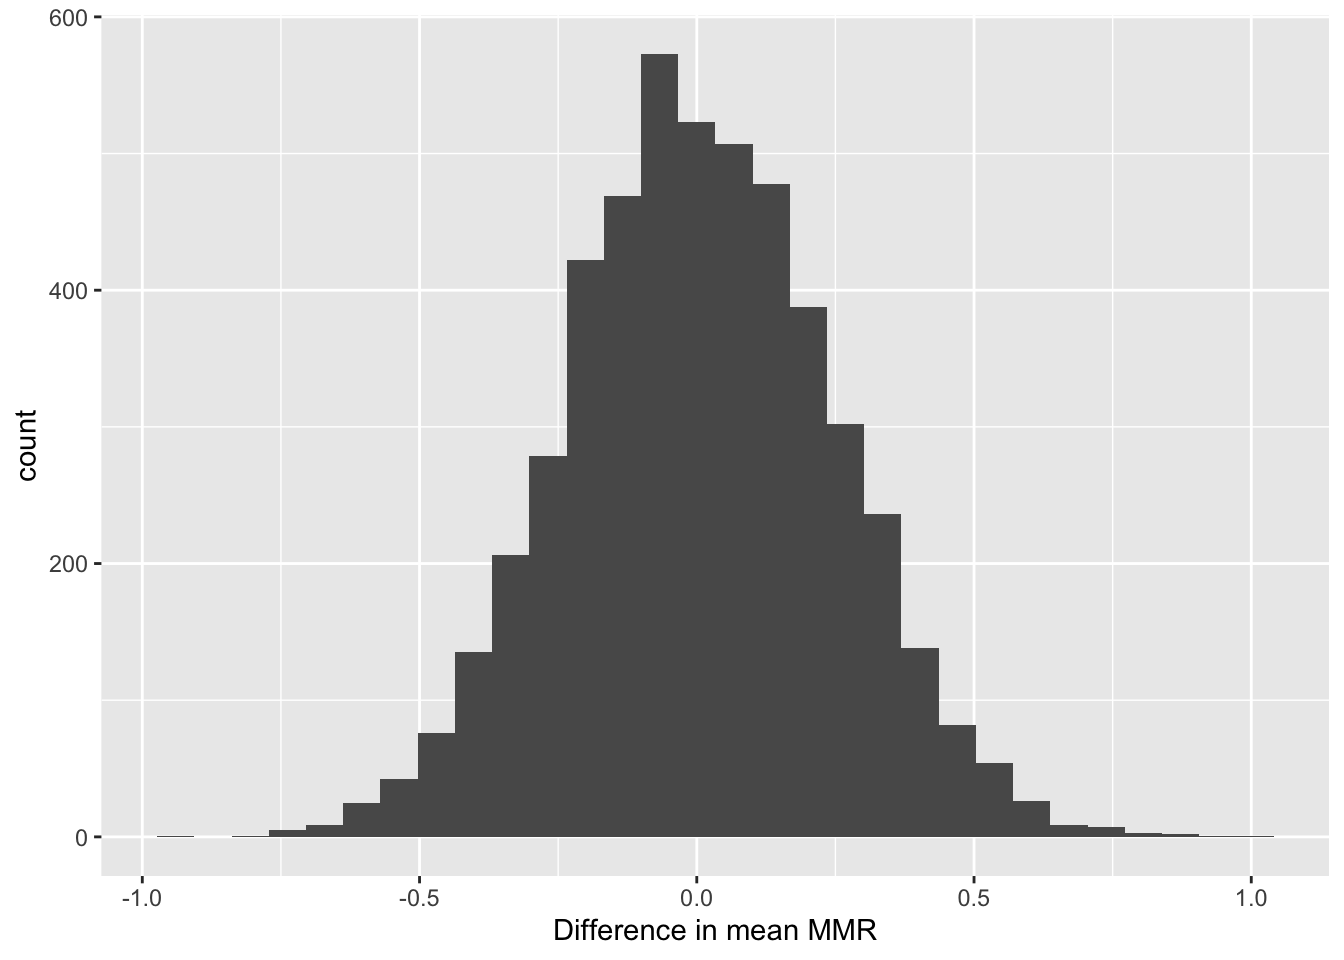
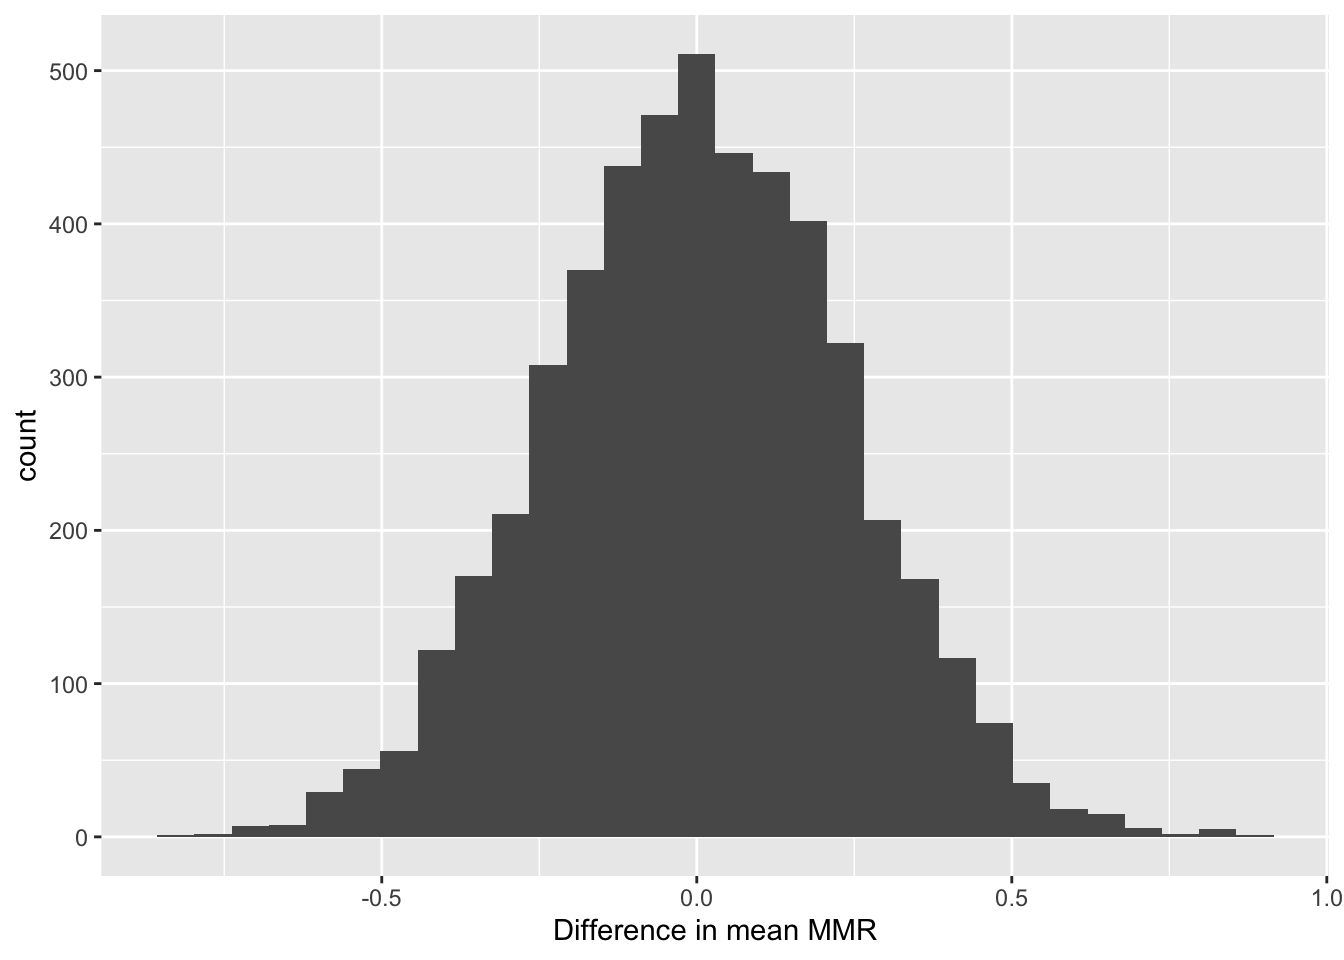
fifth

diff --git a/public/project2/index.html b/public/project2/index.html
@@ -74,8 +74,6 @@
               
 
 
-<div id="yu-qin" class="section level2">
-<h2>Yu Qin</h2>
 <p>This is a document exploring vaccination in schools, with an interest to see if there is a difference in measles vaccination rates between public and private schools. The dataset includes the US state the school is located in (<strong>state</strong>), the category of school (<strong>type</strong>), private or public, the MMR (measles, mumps, rubella) vaccination rate for the school (<strong>mmr</strong>), enrollment number of the school (<strong>enroll</strong>), and medical vaccination exemption rate in the school (<strong>xmed</strong>). Data was obtained from <a href="https://github.com/rfordatascience/tidytuesday" class="uri">https://github.com/rfordatascience/tidytuesday</a>, with original source from The Wallstreet Journal. The dataset, after removing unusable observations, contains 10202 observations. When all NA’s are removed, the dataset contains 6244 observations.</p>
 <p>I am interested in seeing if difference in policies between private, charter, and public schools will show in their MMR vaccination rates becuase the outbreak of measles typically center around schools. I suspect that public school may have better measles vaccination due to stricter government regulation.</p>
 <pre class="r"><code>measles&lt;-readr::read_csv(&#39;https://raw.githubusercontent.com/rfordatascience/tidytuesday/master/data/2020/2020-02-25/measles.csv&#39;)
@@ -246,20 +244,20 @@ coef(fit)
 })
 samp_distn%&gt;%t%&gt;%as.data.frame%&gt;%summarize_all(sd)</code></pre>
 <pre><code>##   (Intercept)   enroll_c typePrivate typePublic enroll_c:typePrivate
-## 1   0.6235703 0.01689133     0.78286  0.6293631           0.01847992
+## 1   0.6315709 0.01685449   0.8003873  0.6376363           0.01833802
 ##   enroll_c:typePublic
-## 1          0.01689916</code></pre>
+## 1          0.01687885</code></pre>
 <pre class="r"><code>samp_distn%&gt;%t%&gt;%as.data.frame%&gt;%gather%&gt;%group_by(key)%&gt;%
   summarize(lower=quantile(value,0.025),upper=quantile(value,0.975))</code></pre>
 <pre><code>## # A tibble: 6 x 3
-##   key                    lower     upper
-##   &lt;chr&gt;                  &lt;dbl&gt;     &lt;dbl&gt;
-## 1 (Intercept)          88.3    90.8     
-## 2 enroll_c              0.0285  0.0942  
-## 3 enroll_c:typePrivate -0.0725  0.000915
-## 4 enroll_c:typePublic  -0.0908 -0.0251  
-## 5 typePrivate           2.58    5.69    
-## 6 typePublic            3.96    6.45</code></pre>
+##   key                    lower      upper
+##   &lt;chr&gt;                  &lt;dbl&gt;      &lt;dbl&gt;
+## 1 (Intercept)          88.3    90.8      
+## 2 enroll_c              0.0282  0.0951   
+## 3 enroll_c:typePrivate -0.0720 -0.0000844
+## 4 enroll_c:typePublic  -0.0917 -0.0249   
+## 5 typePrivate           2.62    5.75     
+## 6 typePublic            3.94    6.50</code></pre>
 <p>The bootstrapped SEs are very close and similar to the robust SEs in values, and just like robust SEs, there are increases (enroll_c,enroll_c:typePrivate,enroll_c:typePublic) and decreases (intercept,typePrivate,typePublic) from the original SEs.</p>
 <p>None of the 95% confidence intervals include 0 between the lower and upper bounds, meaning that all the effects and interactions are significant, which did not change between the other models (original and robust SE).</p>
 <pre class="r"><code>measles1$mmr_c&lt;-measles$mmr-mean(measles$mmr)
@@ -467,7 +465,6 @@ summary(fit)</code></pre>
 ## Multiple R-squared:  0.2962, Adjusted R-squared:  0.296 
 ## F-statistic:  1182 on 2 and 5616 DF,  p-value: &lt; 2.2e-16</code></pre>
 <p>10-fold CV LASSO for continuous response variable, mmr. Residual standard error (RMSE) is 6.765. Compared to the RMSE from the model without LASSO, the RMSE for the model with LASSO is actually larger but not by much. This means that both model’s fit is about the same.</p>
-</div>
 
               <hr>
               <div class="related-posts">

diff --git a/content/project2.html b/content/project2.html
@@ -7,8 +7,6 @@ output: pdf_document
 
 
 
-<div id="yu-qin" class="section level2">
-<h2>Yu Qin</h2>
 <p>This is a document exploring vaccination in schools, with an interest to see if there is a difference in measles vaccination rates between public and private schools. The dataset includes the US state the school is located in (<strong>state</strong>), the category of school (<strong>type</strong>), private or public, the MMR (measles, mumps, rubella) vaccination rate for the school (<strong>mmr</strong>), enrollment number of the school (<strong>enroll</strong>), and medical vaccination exemption rate in the school (<strong>xmed</strong>). Data was obtained from <a href="https://github.com/rfordatascience/tidytuesday" class="uri">https://github.com/rfordatascience/tidytuesday</a>, with original source from The Wallstreet Journal. The dataset, after removing unusable observations, contains 10202 observations. When all NA’s are removed, the dataset contains 6244 observations.</p>
 <p>I am interested in seeing if difference in policies between private, charter, and public schools will show in their MMR vaccination rates becuase the outbreak of measles typically center around schools. I suspect that public school may have better measles vaccination due to stricter government regulation.</p>
 <pre class="r"><code>measles&lt;-readr::read_csv(&#39;https://raw.githubusercontent.com/rfordatascience/tidytuesday/master/data/2020/2020-02-25/measles.csv&#39;)
@@ -179,20 +177,20 @@ coef(fit)
 })
 samp_distn%&gt;%t%&gt;%as.data.frame%&gt;%summarize_all(sd)</code></pre>
 <pre><code>##   (Intercept)   enroll_c typePrivate typePublic enroll_c:typePrivate
-## 1   0.6235703 0.01689133     0.78286  0.6293631           0.01847992
+## 1   0.6315709 0.01685449   0.8003873  0.6376363           0.01833802
 ##   enroll_c:typePublic
-## 1          0.01689916</code></pre>
+## 1          0.01687885</code></pre>
 <pre class="r"><code>samp_distn%&gt;%t%&gt;%as.data.frame%&gt;%gather%&gt;%group_by(key)%&gt;%
   summarize(lower=quantile(value,0.025),upper=quantile(value,0.975))</code></pre>
 <pre><code>## # A tibble: 6 x 3
-##   key                    lower     upper
-##   &lt;chr&gt;                  &lt;dbl&gt;     &lt;dbl&gt;
-## 1 (Intercept)          88.3    90.8     
-## 2 enroll_c              0.0285  0.0942  
-## 3 enroll_c:typePrivate -0.0725  0.000915
-## 4 enroll_c:typePublic  -0.0908 -0.0251  
-## 5 typePrivate           2.58    5.69    
-## 6 typePublic            3.96    6.45</code></pre>
+##   key                    lower      upper
+##   &lt;chr&gt;                  &lt;dbl&gt;      &lt;dbl&gt;
+## 1 (Intercept)          88.3    90.8      
+## 2 enroll_c              0.0282  0.0951   
+## 3 enroll_c:typePrivate -0.0720 -0.0000844
+## 4 enroll_c:typePublic  -0.0917 -0.0249   
+## 5 typePrivate           2.62    5.75     
+## 6 typePublic            3.94    6.50</code></pre>
 <p>The bootstrapped SEs are very close and similar to the robust SEs in values, and just like robust SEs, there are increases (enroll_c,enroll_c:typePrivate,enroll_c:typePublic) and decreases (intercept,typePrivate,typePublic) from the original SEs.</p>
 <p>None of the 95% confidence intervals include 0 between the lower and upper bounds, meaning that all the effects and interactions are significant, which did not change between the other models (original and robust SE).</p>
 <pre class="r"><code>measles1$mmr_c&lt;-measles$mmr-mean(measles$mmr)
@@ -400,4 +398,3 @@ summary(fit)</code></pre>
 ## Multiple R-squared:  0.2962, Adjusted R-squared:  0.296 
 ## F-statistic:  1182 on 2 and 5616 DF,  p-value: &lt; 2.2e-16</code></pre>
 <p>10-fold CV LASSO for continuous response variable, mmr. Residual standard error (RMSE) is 6.765. Compared to the RMSE from the model without LASSO, the RMSE for the model with LASSO is actually larger but not by much. This means that both model’s fit is about the same.</p>
-</div>

diff --git a/public/project1/index.html b/public/project1/index.html
@@ -75,8 +75,6 @@
 <script src="/rmarkdown-libs/kePrint/kePrint.js"></script>
 
 
-<div id="yu-qin-yq895" class="section level2">
-<h2>Yu Qin yq895</h2>
 <p>This is a document exploring the various identification indices of countries, with a particular emphasis on how corruption is related to each index. Each dataset represents an index with the value, year, and country. Corruption perceptions index (<strong>CPI</strong>) is determined by each country’s pereived levels of corruption in the public sector, taken from surveys and assessments. The scale goes from 0-100 and the higher the CPI, the less corrupt. Human development index (<strong>HDI</strong>) is a measurement of a country’s development and is a composit of life expectancy, education, and per capita income. The scale goes from 0-1 and the higher the HDI, the more developed. Gross domestic product per capita (<strong>GDP</strong>, in USD) is a monetary measurment of the market value of a country’s production (goods and services) divided by the population. This index is reflective of the national economy. The GINI index (<strong>GINI</strong>) is used to measure a nation’s inequality based on wealth distribution. A value of 100 would mean perfect inequality while 0 would mean total equality. Finally, the freedom index (<strong>FI</strong>) measures a country’s civil freedom and is an average of political rights and civil liberties. The lower the FI the more free a country is. Data was obtained from gapminder.org and worldbank.org.</p>
 <p>These indicies are interesting to me because I believe that a nation’s overall growth and welfare is dependent on a noncorrupt government and more civil freedom. I want to see if that is represented in actual data. I suspect that countries which score high on CPI (less corrupt) will also have a high GDP, low FI (more free), and a low GINI index.</p>
 <pre class="r"><code>fi&lt;-read.csv(&quot;fi.csv&quot;)
@@ -1351,7 +1349,6 @@ mastercpi%&gt;%group_by(category)%&gt;%
 ## 1 CPI&lt;50         118
 ## 2 CPI&gt;50          53</code></pre>
 <p>I initially expected the clustering to be 4, based on the 4 categories of development grouped by the United Nations. With 2 clusters we should expect low and medium countries to fall into one cluster and high and very high countries to fall into another. The 2 clusters grouped the low and medium developed countries very well into cluster 1 but grouped about 3/4th of the high developed countries into cluster 1 as well. About 1/5th of the very high countries were also grouped into cluster 1. This could be due to factoring in of the other indices and some outliers that were present. As seen in the graphic, the clusters separated into CPI&lt;50 and CPI&gt;50 groups, which from the counts, was fairly grouped with cluster 1 for CPI&lt;50 and cluster 2 for CPI&gt;50.</p>
-</div>
 
               <hr>
               <div class="related-posts">

diff --git a/content/project1.html b/content/project1.html
@@ -8,8 +8,6 @@ output: pdf_document
 <script src="/rmarkdown-libs/kePrint/kePrint.js"></script>
 
 
-<div id="yu-qin-yq895" class="section level2">
-<h2>Yu Qin yq895</h2>
 <p>This is a document exploring the various identification indices of countries, with a particular emphasis on how corruption is related to each index. Each dataset represents an index with the value, year, and country. Corruption perceptions index (<strong>CPI</strong>) is determined by each country’s pereived levels of corruption in the public sector, taken from surveys and assessments. The scale goes from 0-100 and the higher the CPI, the less corrupt. Human development index (<strong>HDI</strong>) is a measurement of a country’s development and is a composit of life expectancy, education, and per capita income. The scale goes from 0-1 and the higher the HDI, the more developed. Gross domestic product per capita (<strong>GDP</strong>, in USD) is a monetary measurment of the market value of a country’s production (goods and services) divided by the population. This index is reflective of the national economy. The GINI index (<strong>GINI</strong>) is used to measure a nation’s inequality based on wealth distribution. A value of 100 would mean perfect inequality while 0 would mean total equality. Finally, the freedom index (<strong>FI</strong>) measures a country’s civil freedom and is an average of political rights and civil liberties. The lower the FI the more free a country is. Data was obtained from gapminder.org and worldbank.org.</p>
 <p>These indicies are interesting to me because I believe that a nation’s overall growth and welfare is dependent on a noncorrupt government and more civil freedom. I want to see if that is represented in actual data. I suspect that countries which score high on CPI (less corrupt) will also have a high GDP, low FI (more free), and a low GINI index.</p>
 <pre class="r"><code>fi&lt;-read.csv(&quot;fi.csv&quot;)
@@ -1284,4 +1282,3 @@ mastercpi%&gt;%group_by(category)%&gt;%
 ## 1 CPI&lt;50         118
 ## 2 CPI&gt;50          53</code></pre>
 <p>I initially expected the clustering to be 4, based on the 4 categories of development grouped by the United Nations. With 2 clusters we should expect low and medium countries to fall into one cluster and high and very high countries to fall into another. The 2 clusters grouped the low and medium developed countries very well into cluster 1 but grouped about 3/4th of the high developed countries into cluster 1 as well. About 1/5th of the very high countries were also grouped into cluster 1. This could be due to factoring in of the other indices and some outliers that were present. As seen in the graphic, the clusters separated into CPI&lt;50 and CPI&gt;50 groups, which from the counts, was fairly grouped with cluster 1 for CPI&lt;50 and cluster 2 for CPI&gt;50.</p>
-</div>

diff --git a/public/index.html b/public/index.html
@@ -55,7 +55,7 @@
       <section id="about">
         <div class="container">
         <div class="avatar">
-          <img class="img-circle" src="/img/professional%20pic.jpeg" alt="It me."height=150px width=150px >
+          <img class="img-circle" src="/img/QIN_YU.jpeg" alt="It me."height=150px width=150px >
         </div>
         <h3>Hi! I'm <a href="/about/"><strong>Yu (Haity) Qin</strong></a>. I have a bachelors in Human Biology and Neuroscience from the University of Texas at Austin. My expertise is with proteins involved in the DNA damage response.</h3>
         <h3>I love <a href="/about/">pandas</a>.</h3>
